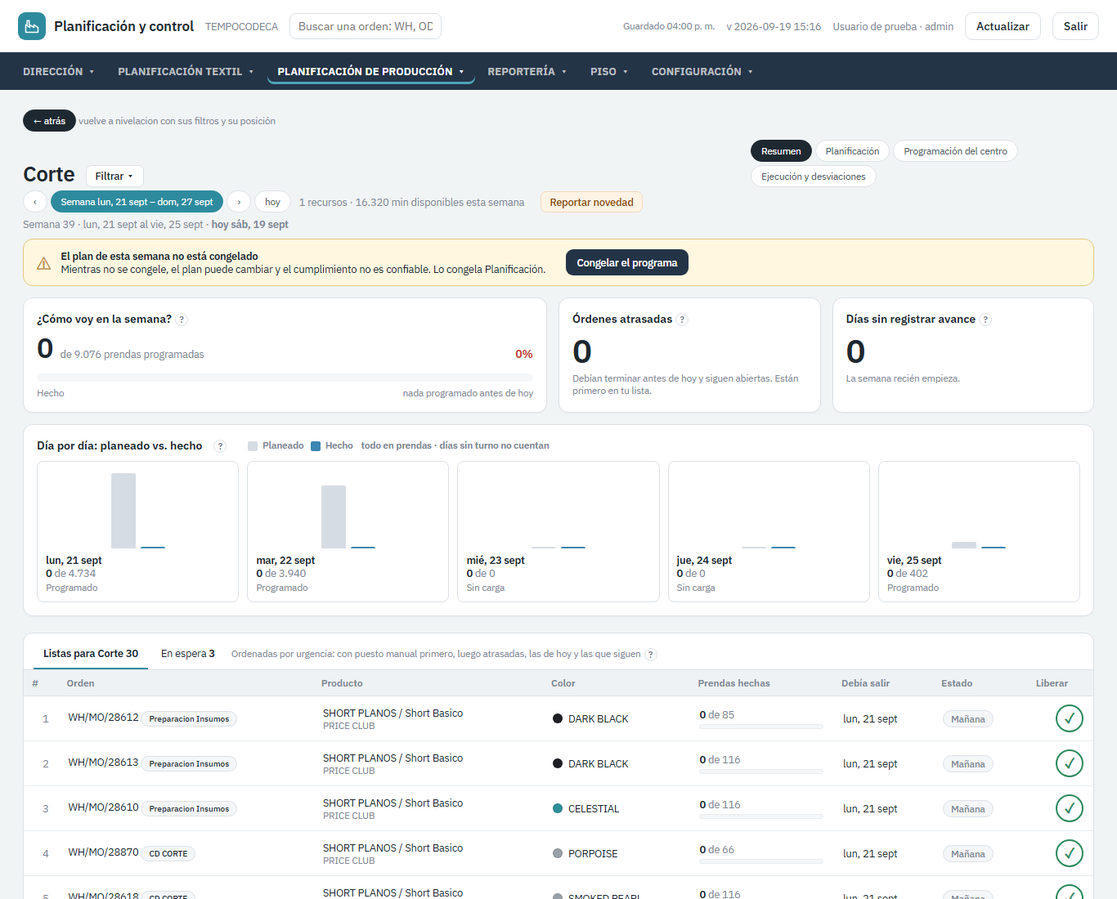
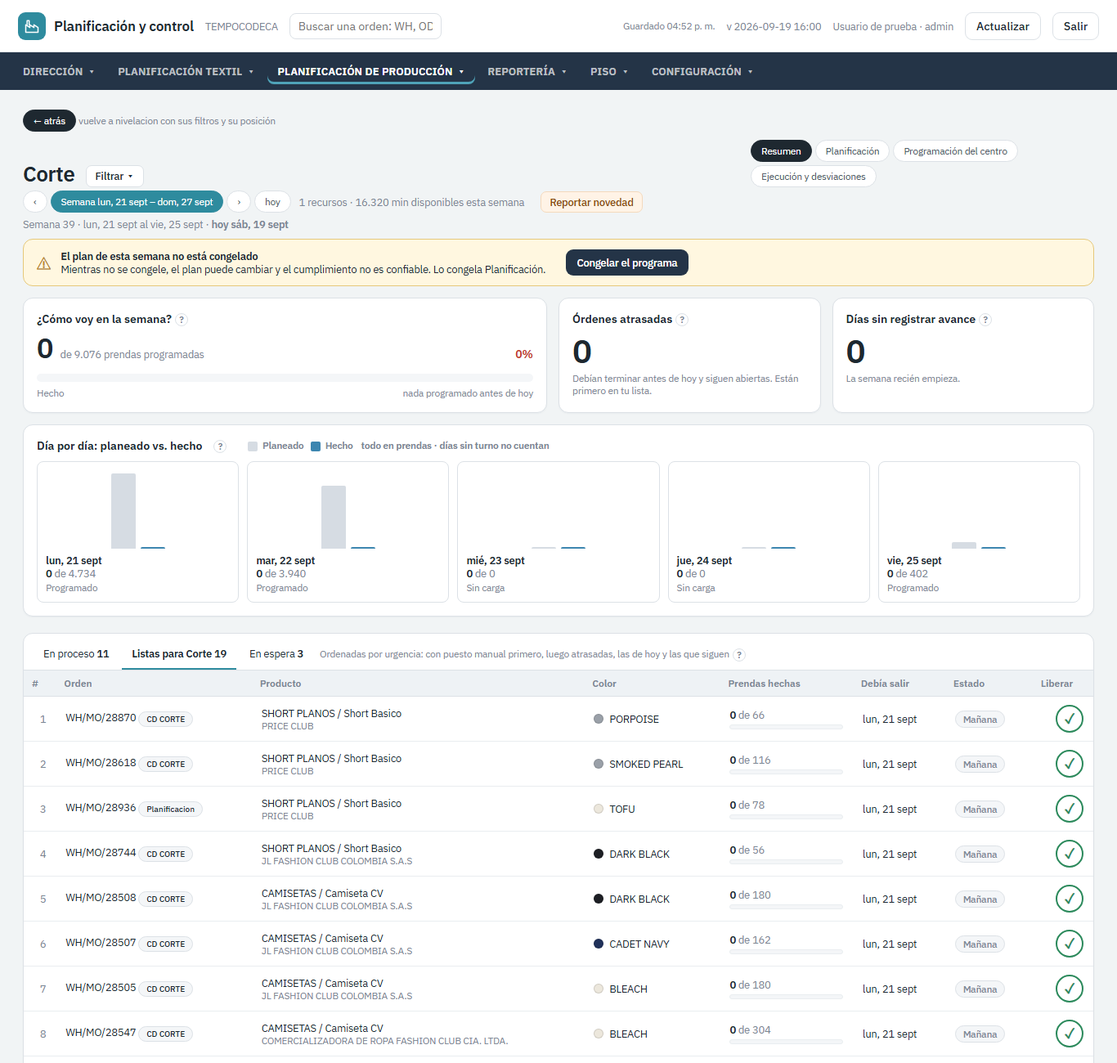
Resumen del centro: tres grupos — En proceso (la fase de Odoo ya es la del centro: 4Corte Planta en Corte, 7Confección en Confección; o el piso ya registró aquí) · Listas (ya puede empezarse) · En espera (viene); el visto sigue en las de proceso; las atrasadas de la tarjeta cuentan proceso + listas;

diff --git a/index.html b/index.html
@@ -768,7 +768,7 @@ async function _save(){
 }
 
 /* ---------- versión cargada vs publicada: nunca mirar números de una copia vieja sin saberlo ---------- */
-const APP_BUILD='2026-09-19 16:00';
+const APP_BUILD='2026-09-19 16:54';
 function verBotonesAdmin(){const ok=puede('config');['btn-respaldo','btn-restaurar'].forEach(id=>{const b=document.getElementById(id);if(b)b.style.display=ok?'':'none'})}
 function verVersion(){const e=document.getElementById('version');if(e)e.textContent='v '+APP_BUILD}
 async function revisarVersion(){try{const r=await fetch(location.pathname+'?nocache='+Date.now(),{cache:'no-store'});if(!r.ok)return;const t=await r.text();const m=t.match(/APP_BUILD=\x27([^\x27]+)\x27/);if(!m)return;
@@ -7408,10 +7408,15 @@ function ordenUrgencia(f){const k=estadoListaCentro(f).k;return k==='atrasada'?0
 function enPlantaParaCentro(o){return lanzada(o)&&liberada(o,'tela')}
 function listasYEspera(c,filas){const cola=colaCentro(c,filas).filter(f=>enPlantaParaCentro(f.o));const listas=[],espera=[];
   /* Listas = el paso anterior terminó (grupo Disponible). El puesto manual solo ORDENA dentro de su lista: no vuelve «lista» a una orden que no llegó */
-  cola.forEach(f=>{const g=(f.cerc&&f.cerc.grupo)||'porLlegar';if(g==='disponible')listas.push(f);else espera.push(f)});
+  const proceso=[];
+  cola.forEach(f=>{const g=(f.cerc&&f.cerc.grupo)||'porLlegar';if(g!=='disponible'){espera.push(f);return}
+    if(enProcesoEnCentro(f.o,c,f.cerc))proceso.push(f);else listas.push(f)});
   const fecha=f=>(f.paso.fin||f.paso.ini||'9');
-  listas.sort((a,b)=>(puestoDe(a.o,c)||SIN_PUESTO)-(puestoDe(b.o,c)||SIN_PUESTO)||ordenUrgencia(a)-ordenUrgencia(b)||(fecha(a)<fecha(b)?-1:fecha(a)>fecha(b)?1:0)||((a.o.fecha||'')<(b.o.fecha||'')?-1:1));
-  return{cola,listas,espera}}
+  const porUrgencia=(a,b)=>(puestoDe(a.o,c)||SIN_PUESTO)-(puestoDe(b.o,c)||SIN_PUESTO)||ordenUrgencia(a)-ordenUrgencia(b)||(fecha(a)<fecha(b)?-1:fecha(a)>fecha(b)?1:0)||((a.o.fecha||'')<(b.o.fecha||'')?-1:1);
+  listas.sort(porUrgencia);proceso.sort(porUrgencia);
+  return{cola,proceso,listas,espera}}
+/* «se está cortando / cosiendo»: la fase de Odoo ya es la de este centro (posicionFaseCentro), o el piso registró unidades / tiene un tramo abierto aquí */
+function enProcesoEnCentro(o,c,cerc){try{if(cerc&&cerc.anomalia&&cerc.anomalia.tipo==='enProceso')return true;if(typeof posicionFaseCentro==='function'&&posicionFaseCentro(o,c)==='enProceso')return true;return estadoOrdenCentro(o,c,null)==='proceso'}catch(e){return false}}
 /* pedir a planificación que congele la semana: queda en la bitácora (la única tabla que el piso escribe) y en Hoy → Pendientes;
    se da por atendido solo cuando existe un congelado de esa semana en ese centro (no hay «marcar atendido») */
 function pedirCongelamiento(cid,lun){const cens=censDeGrupo(cid);const ab=pedidosCongelarAbiertos();
@@ -7437,7 +7442,7 @@ function tarjetasResumenCentroHTML(cens,P,dias,recs,listas,nombre){const h=hoy()
     <div class="res-big"><b>${(ningunReg&&!hechas)?'<span class="tag t-alerta" title="ningún día pasado con carga tiene registro: no se puede leer el avance">sin registros</span>':num(hechas)}</b> <span class="mut">de ${num(pz)} prendas programadas</span>${pct!==null&&!(ningunReg&&!hechas)?'<span class="res-pct '+(pct<50?'mal':'')+'">'+pct+'%</span>':(!pz?'<span class="res-pct mut" style="font-weight:400">nada programado esta semana</span>':'')}</div>
     <div class="res-bar"><i style="width:${pct===null?0:Math.min(100,pct)}%"></i>${mark?'<u style="left:'+mark+'%" title="al cierre de ayer debías llevar '+num(debia)+'"></u>':''}</div>
     <div class="res-leg"><span>Hecho</span><span style="margin-left:auto">${debia?'▲ Al cierre de ayer debías llevar <b>'+num(debia)+'</b>':'<span class="mut">nada programado antes de hoy</span>'}</span></div></div></div>
-   <div class="panel res-card"><div class="body"><div class="res-t">Órdenes atrasadas${ayudaTipHTML('Órdenes listas en '+nombre+' cuyo fin programado en este centro ya pasó y siguen abiertas. Van primero en la lista. No es la fecha meta de la orden: eso es la marca «meta vencida / va tarde» de la cola.')}</div>
+   <div class="panel res-card"><div class="body"><div class="res-t">Órdenes atrasadas${ayudaTipHTML('Órdenes en proceso o listas en '+nombre+' cuyo fin programado en este centro ya pasó y siguen abiertas. Van primero en la lista. No es la fecha meta de la orden: eso es la marca «meta vencida / va tarde» de la cola.')}</div>
     <div class="res-n ${atr.length?'mal':''}">${num(atr.length)}</div><div class="mut res-sub">Debían terminar antes de hoy y siguen abiertas. Están primero en tu lista.</div></div></div>
    <div class="panel res-card"><div class="body"><div class="res-t">Días sin registrar avance${ayudaTipHTML('Días laborables ya pasados de esta semana que tenían carga programada en '+nombre+' y no registraron nada: ni avance por talla, ni tramo cerrado, ni producción del turno, ni paro. Si se trabajó y no se registró, el avance real es mayor que el que se ve. Los días sin carga no cuentan.')}</div>
     <div class="res-n ${sinReg.length?'mal':''}">${num(sinReg.length)}</div><div class="mut res-sub">${sinReg.length?esc(sinReg.map(d=>fmtDia(d).split(',')[0]).join(', '))+'. Si se hizo y no se registró, el avance real es mayor.':(conCarga.length?'Todos los días pasados con carga tienen registro.':(pasados.length?'Ningún día pasado tenía carga programada.':'La semana recién empieza.'))}</div></div></div>
@@ -7461,12 +7466,12 @@ function diaPorDiaHTML(cens,P,dias,recs,nombre){const h=hoy();const rec=CEN.rec|
 /* la lista: Listas para <centro> N | En espera N · foto, WH y fase (whCell), producto, color, prendas hechas, debía salir, estado y el visto verde */
 function listaResumenCentroHTML(cens,P,filas,nombre){const h=hoy();const nVer=prm('filasResumenCentro',8);
   const porC=cens.map(c=>({c,...listasYEspera(c,filas)}));const fuera=[].concat(...cens.map(c=>colaCentro(c,filas))).filter(f=>!enPlantaParaCentro(f.o)).length;
-  let listas=[].concat(...porC.map(x=>x.listas.map(f=>f))),espera=[].concat(...porC.map(x=>x.espera));
-  if(CEN.rec){listas=listas.filter(f=>recDeFila(f)===CEN.rec);espera=espera.filter(f=>recDeFila(f)===CEN.rec)}
-  if(CEN.dia){listas=listas.filter(f=>filaEnDiaCEN(f,P,CEN.dia));espera=espera.filter(f=>filaEnDiaCEN(f,P,CEN.dia))}
-  const tab=CEN.lista==='espera'?'espera':'listas';const L=tab==='espera'?espera:listas;
+  let proceso=[].concat(...porC.map(x=>x.proceso)),listas=[].concat(...porC.map(x=>x.listas)),espera=[].concat(...porC.map(x=>x.espera));
+  if(CEN.rec){proceso=proceso.filter(f=>recDeFila(f)===CEN.rec);listas=listas.filter(f=>recDeFila(f)===CEN.rec);espera=espera.filter(f=>recDeFila(f)===CEN.rec)}
+  if(CEN.dia){proceso=proceso.filter(f=>filaEnDiaCEN(f,P,CEN.dia));listas=listas.filter(f=>filaEnDiaCEN(f,P,CEN.dia));espera=espera.filter(f=>filaEnDiaCEN(f,P,CEN.dia))}
+  const tab=CEN.lista==='espera'?'espera':CEN.lista==='proceso'?'proceso':'listas';const L=tab==='espera'?espera:tab==='proceso'?proceso:listas;
   const vis=CEN.verTodo?L:L.slice(0,nVer);const multi=cens.length>1;
-  const fila=(f,i)=>{const e=tab==='listas'?estadoListaCentro(f):null;const pend=Math.max(0,(+f.o.cant||0)-(f.hechas||0));const pct=f.o.cant?Math.min(100,Math.round((f.hechas||0)/f.o.cant*100)):0;
+  const fila=(f,i)=>{let e=(tab==='listas'||tab==='proceso')?estadoListaCentro(f):null;if(tab==='proceso'&&e&&e.k!=='atrasada')e=null;   /* en proceso: solo interesa si ya debía haber salido */const pend=Math.max(0,(+f.o.cant||0)-(f.hechas||0));const pct=f.o.cant?Math.min(100,Math.round((f.hechas||0)/f.o.cant*100)):0;
     const g=(f.cerc&&f.cerc.grupo)||'';const gTxt=(CERCANIA_GRUPOS.find(x=>x[0]===g)||[])[1]||'';
     return `<tr class="res-fila" onclick="if(!event.target.closest('button,img,.fase-mini'))abrirFichaOrden('${f.o.id}')" style="cursor:pointer">
      <td class="num mut">${i+1}</td>
@@ -7475,13 +7480,13 @@ function listaResumenCentroHTML(cens,P,filas,nombre){const h=hoy();const nVer=pr
      <td style="white-space:nowrap">${dotColor(f.o.color)}${esc((C(f.o.color)||{}).n||'')}</td>
      <td style="min-width:130px"><b>${num(f.hechas||0)}</b> <span class="mut">de ${num(f.o.cant)}</span><div class="bar" style="height:6px;margin-top:4px"><i style="width:${pct}%;background:var(--ok)"></i></div></td>
      <td style="white-space:nowrap">${f.paso.fin?fmtDia(f.paso.fin):'<span class="mut">—</span>'}</td>
-     <td style="white-space:nowrap">${e?'<span class="tag '+e.cls+'" title="'+esc(e.tip)+'">'+esc(e.txt)+'</span>':(llegadaHTML(f.cerc)||'')+(gTxt?' <span class="tag t-mut" title="grupo de la cola">'+esc(gTxt)+'</span>':'')}${e&&g&&g!=='disponible'&&puestoDe(f.o,f.c)?' '+llegadaHTML(f.cerc):''}</td>
-     <td class="num">${(e&&regHechoOk(f.c))?`<button class="visto" onclick="event.stopPropagation();mCerrarCentro('${f.o.id}','${f.c}')" title="terminar la orden en ${esc(nCen(f.c))}: queda libre para el siguiente centro${puedeCerrarPaso(f.o.id,f.c).ok?'':' · sin tiempo corrido pide motivo'}">✓</button>`:'<span class="mut" title="'+(e?'tu perfil no registra en este centro':'todavía no llega a este centro: el visto aparece cuando esté lista')+'">—</span>'}</td></tr>`};
+     <td style="white-space:nowrap">${tab==='proceso'?'<span class="tag t-hoy" title="la fase de Odoo ya es la de '+esc(nCen(f.c))+' o el piso ya registró aquí">En '+esc(nCen(f.c))+'</span> ':''}${e?'<span class="tag '+e.cls+'" title="'+esc(e.tip)+'">'+esc(e.txt)+'</span>':(llegadaHTML(f.cerc)||'')+(gTxt?' <span class="tag t-mut" title="grupo de la cola">'+esc(gTxt)+'</span>':'')}${e&&g&&g!=='disponible'&&puestoDe(f.o,f.c)?' '+llegadaHTML(f.cerc):''}</td>
+     <td class="num">${(tab!=='espera'&&regHechoOk(f.c))?`<button class="visto" onclick="event.stopPropagation();mCerrarCentro('${f.o.id}','${f.c}')" title="terminar la orden en ${esc(nCen(f.c))}: queda libre para el siguiente centro${puedeCerrarPaso(f.o.id,f.c).ok?'':' · sin tiempo corrido pide motivo'}">✓</button>`:'<span class="mut" title="'+(tab!=='espera'?'tu perfil no registra en este centro':'todavía no llega a este centro: el visto aparece cuando esté lista')+'">—</span>'}</td></tr>`};
   const verbo=nombre;
-  return `<div class="panel res-lista"><div class="res-tabs"><span class="res-tab ${tab==='listas'?'on':''}" onclick="CEN.lista='listas';CEN.verTodo=false;render()">Listas para ${esc(verbo)} <b>${num(listas.length)}</b></span><span class="res-tab ${tab==='espera'?'on':''}" onclick="CEN.lista='espera';CEN.verTodo=false;render()">En espera <b>${num(espera.length)}</b></span><span class="spacer"></span>
-    <span class="mut" style="font-size:var(--fs-xs)">${tab==='listas'?'Ordenadas por urgencia: con puesto manual primero, luego atrasadas, las de hoy y las que siguen':'En el orden de la cola: Por llegar (por fase, la más cercana primero) → Todo lo que viene → Revisar ruta → Ya salió de aquí'}${ayudaTipHTML(tab==='listas'?'Listas = el paso anterior ya terminó (o la tela está lista en el primer centro): se pueden trabajar ya. El puesto manual solo cambia el orden; no vuelve «lista» a una orden que todavía no llegó. Solo entran órdenes de planta: con WH y con la tela liberada por planificación.':'En espera = todavía no llegan a este centro: les falta un paso anterior o la tela. El estado dice cuándo llegan según el programa. Solo órdenes de planta (con WH y tela liberada); lo de diseño no entra.')}</span></div>
+  return `<div class="panel res-lista"><div class="res-tabs"><span class="res-tab ${tab==='proceso'?'on':''}" onclick="CEN.lista='proceso';CEN.verTodo=false;render()" title="la fase de Odoo ya es la de este centro, o el piso ya registró aquí">En proceso <b>${num(proceso.length)}</b></span><span class="res-tab ${tab==='listas'?'on':''}" onclick="CEN.lista='listas';CEN.verTodo=false;render()">Listas para ${esc(verbo)} <b>${num(listas.length)}</b></span><span class="res-tab ${tab==='espera'?'on':''}" onclick="CEN.lista='espera';CEN.verTodo=false;render()">En espera <b>${num(espera.length)}</b></span><span class="spacer"></span>
+    <span class="mut" style="font-size:var(--fs-xs)">${tab==='proceso'?'Lo que ya se está haciendo aquí (fase de Odoo en este centro o avance registrado), por urgencia':tab==='listas'?'Ordenadas por urgencia: con puesto manual primero, luego atrasadas, las de hoy y las que siguen':'En el orden de la cola: Por llegar (por fase, la más cercana primero) → Todo lo que viene → Revisar ruta → Ya salió de aquí'}${ayudaTipHTML(tab==='proceso'?'En proceso = la fase de Odoo ya es la de este centro (p. ej. 4Corte Planta en Corte, 7Confección en Confección) o el piso ya registró unidades o tiene un tramo abierto aquí. No están esperando: ya se están haciendo.':tab==='listas'?'Listas = el paso anterior ya terminó (o la tela está lista en el primer centro): se pueden trabajar ya. El puesto manual solo cambia el orden; no vuelve «lista» a una orden que todavía no llegó. Solo entran órdenes de planta: con WH y con la tela liberada por planificación.':'En espera = todavía no llegan a este centro: les falta un paso anterior o la tela. El estado dice cuándo llegan según el programa. Solo órdenes de planta (con WH y tela liberada); lo de diseño no entra.')}</span></div>
    <div class="scroll"><table class="res-tabla"><thead><tr><th>#</th><th>Orden</th><th>Producto</th><th>Color</th><th>Prendas hechas</th><th title="fin programado del paso en este centro">Debía salir</th><th>Estado</th><th title="marcar hecha: queda libre para el siguiente centro">Liberar</th></tr></thead><tbody>
-   ${vis.map(fila).join('')||'<tr><td colspan="8" class="mut" style="padding:14px">'+(tab==='listas'?'Ninguna orden lista'+(CEN.rec?' en '+esc(nRec(CEN.rec)):'')+(CEN.dia?' el '+fmtDia(CEN.dia):'')+'.':'Nada en espera.')+'</td></tr>'}
+   ${vis.map(fila).join('')||'<tr><td colspan="8" class="mut" style="padding:14px">'+(tab==='proceso'?'Nada en proceso ahora':tab==='listas'?'Ninguna orden lista'+(CEN.rec?' en '+esc(nRec(CEN.rec)):'')+(CEN.dia?' el '+fmtDia(CEN.dia):'')+'.':'Nada en espera.')+'</td></tr>'}
    </tbody></table></div>
    ${L.length>vis.length?`<div class="res-mas" onclick="CEN.verTodo=true;render()">Ver las ${num(L.length-vis.length)} restantes</div>`:(CEN.verTodo&&L.length>nVer?`<div class="res-mas" onclick="CEN.verTodo=false;render()">Ver menos</div>`:'')}
    ${fuera?`<p class="mut" style="font-size:var(--fs-xs);margin:6px 16px 10px">${num(fuera)} ${fuera===1?'orden de este centro no se muestra':'órdenes de este centro no se muestran'} aquí porque todavía no ${fuera===1?'es':'son'} de planta (sin WH o sin liberar la tela: diseño, recetas, macro). Están en Órdenes.</p>`:''}
@@ -7491,7 +7496,7 @@ function resumenCentroHTML(cid,cens,P,dias,recs,nombre,filas){const h=hoy();cons
   const recsSel=recsResumen(recs);
   const cong=cens.map(c=>congeladoDe(c,lun));const congelado=cong.length&&cong.every(Boolean);
   const pedido=pedidosCongelarAbiertos().find(b=>b.cid===cid&&b.lun===lun);
-  const {listas}=(()=>{let l=[].concat(...cens.map(c=>listasYEspera(c,filas).listas));if(CEN.rec)l=l.filter(f=>recDeFila(f)===CEN.rec);return{listas:l}})();
+  const {listas}=(()=>{let l=[].concat(...cens.map(c=>{const r=listasYEspera(c,filas);return r.proceso.concat(r.listas)}));if(CEN.rec)l=l.filter(f=>recDeFila(f)===CEN.rec);return{listas:l}})();
 
   const labDias=dias.filter(d=>recs.some(r=>labR(d,r)));
   const semTxt=`Semana ${semanaISO(lun).split('-S')[1]} · ${fmtDia(lun)} al ${fmtDia(labDias[labDias.length-1]||dom)} · <b>hoy ${fmtDia(h)}</b>`;

diff --git a/test/driver.js b/test/driver.js
@@ -6475,9 +6475,11 @@ async function __run(){try{LISTO=true;}catch(e){}try{__R.prevFuzz=localStorage._
    __check("RC1: la pestaña Resumen existe, va primera y es la que abre irCentro por defecto",(()=>{abrir('corte',0);const chips=[...pc().querySelectorAll('.pagehead .chip')].map(x=>x.textContent);return CEN.tab==='resumen'&&chips[0]==='Resumen'&&chips.includes('Programación del centro')})());
    /* RC2 · la semana con carga del volcado (la siguiente): las dos listas parten la cola entera y no repiten nada */
    {abrir('corte',1);const P=programar();const lun=lunesDe(dsum(h,7)),dom=dsum(lun,6);
-    const filas=filasDeCentros(['corte'],P,lun,dom,'').filter(f=>faseOkCEN(f.o));const {cola,listas,espera}=listasYEspera('corte',filas);
+    const filas=filasDeCentros(['corte'],P,lun,dom,'').filter(f=>faseOkCEN(f.o));const {cola,proceso,listas,espera}=listasYEspera('corte',filas);
+    __check("RC2: En proceso = grupo Disponible cuya fase de Odoo ya es la del centro (o el piso registró aquí); no está en Listas",proceso.every(f=>f.cerc&&f.cerc.grupo==='disponible'&&enProcesoEnCentro(f.o,'corte',f.cerc))&&listas.every(f=>!enProcesoEnCentro(f.o,'corte',f.cerc))&&!proceso.some(f=>listas.includes(f)));
+    __check("RC2: una orden en fase 4Corte Planta (se está cortando) sale En proceso y no en Listas",(()=>{const f=cola.find(x=>/corte planta/i.test(x.o.fase||''));return !f||(proceso.includes(f)&&!listas.includes(f))})());
     const ids=x=>x.map(f=>f.o.id).sort().join(',');
-    __check("RC2: Listas + En espera = la cola del centro (colaCentro) acotada a órdenes de planta, sin repetir ni perder ninguna",listas.length+espera.length===cola.length&&ids(listas.concat(espera))===ids(cola)&&new Set(listas.map(f=>f.o.id)).size===listas.length);
+    __check("RC2: En proceso + Listas + En espera = la cola del centro (colaCentro) acotada a órdenes de planta, sin repetir ni perder ninguna",proceso.length+listas.length+espera.length===cola.length&&ids(proceso.concat(listas,espera))===ids(cola)&&new Set(listas.map(f=>f.o.id)).size===listas.length);
     __check("RC2: Listas = SOLO grupo Disponible (el puesto manual ordena, no promueve); En espera = todo lo demás",listas.every(f=>f.cerc&&f.cerc.grupo==='disponible')&&espera.every(f=>!(f.cerc&&f.cerc.grupo==='disponible')));
     __check("RC2: solo órdenes de planta: con WH y con la tela liberada; lo de diseño / sin WH no entra al Resumen",listas.concat(espera).every(f=>lanzada(f.o)&&liberada(f.o,'tela')));
     {const oD=S.ordenes.find(o=>abiertaDe(o)&&!lanzada(o)&&(o.ruta||[]).some(p=>p.centro==='corte'));if(oD){oD.progCentro=Object.assign({},oD.progCentro,{corte:{pri:1}});const r2=listasYEspera('corte',filasDeCentros(['corte'],P,lun,dom,'').filter(f=>faseOkCEN(f.o)));
@@ -6487,7 +6489,7 @@ async function __run(){try{LISTO=true;}catch(e){}try{__R.prevFuzz=localStorage._
     __check("RC2: Listas va por urgencia: puesto manual primero y luego atrasada → para hoy → futuro → sin programar (nunca al revés)",(()=>{let ok=true;for(let i=1;i<listas.length;i++){const a=listas[i-1],b=listas[i];const pa=puestoDe(a.o,'corte')||SIN_PUESTO,pb=puestoDe(b.o,'corte')||SIN_PUESTO;if(pa<pb)continue;if(pa>pb){ok=false;break}if(ordenUrgencia(a)>ordenUrgencia(b)){ok=false;break}}return ok})());
     __check("RC2: En espera conserva el orden de la cola (Por llegar → Todo lo que viene → Revisar → Ya salió)",(()=>{const enCola=cola.filter(f=>espera.includes(f));return enCola.map(f=>f.o.id).join(',')===espera.map(f=>f.o.id).join(',')})());
     const t=[...pc().querySelectorAll('.res-tab')].map(txt);
-    __check("RC2: los conteos de las pestañas son los de las listas",t.length===2&&t[0]==='Listas para Corte '+num(listas.length)&&t[1]==='En espera '+num(espera.length),JSON.stringify(t));
+    __check("RC2: los conteos de las tres pestañas son los de las listas",t.length===3&&t[0]==='En proceso '+num(proceso.length)&&t[1]==='Listas para Corte '+num(listas.length)&&t[2]==='En espera '+num(espera.length),JSON.stringify(t));
     const n=prm('filasResumenCentro',8);const filasDOM=pc().querySelectorAll('.res-tabla tbody tr.res-fila');
     __check("RC2: se muestran las primeras N (parámetro filasResumenCentro, 8) y «Ver las X restantes» completa",filasDOM.length===Math.min(n,listas.length)&&(listas.length<=n||txt(pc().querySelector('.res-mas'))==='Ver las '+num(listas.length-n)+' restantes'));
     __check("RC2: cada fila lleva foto/WH/fase (whCell), producto, color, prendas hechas de pedidas, debía salir, estado y el visto",[...filasDOM].every(tr=>tr.children.length===8&&tr.querySelector('.fase-mini')&&tr.querySelector('.bar')&&tr.querySelector('.visto')));
@@ -6535,7 +6537,7 @@ async function __run(){try{LISTO=true;}catch(e){}try{__R.prevFuzz=localStorage._
     const m1=recs.find(r=>!ordenRecChip(r)&&(all.listas.concat(all.espera)).some(f=>recDeFila(f)===r.id))||recs.find(r=>!ordenRecChip(r));
     abrir('modulos',1);setRecResumen(m1.id);
     const t=[...pc().querySelectorAll('.res-tab')].map(txt);const lm=all.listas.filter(f=>recDeFila(f)===m1.id),em=all.espera.filter(f=>recDeFila(f)===m1.id);
-    __check("RC6: al elegir un módulo la lista se acota a sus órdenes (recurso fijado por el centro o el del motor) y lo dice",CEN.rec===m1.id&&t[0]==='Listas para Confección '+num(lm.length)&&t[1]==='En espera '+num(em.length)&&new RegExp('viendo solo '+m1.n.replace(/[.*+?^${}()|[\]\\]/g,'\\$&')).test(pc().innerHTML),JSON.stringify([t,lm.length,em.length]));
+    __check("RC6: al elegir un módulo la lista se acota a sus órdenes (recurso fijado por el centro o el del motor) y lo dice",CEN.rec===m1.id&&t[1]==='Listas para Confección '+num(lm.length)&&t[2]==='En espera '+num(em.length)&&new RegExp('viendo solo '+m1.n.replace(/[.*+?^${}()|[\]\\]/g,'\\$&')).test(pc().innerHTML),JSON.stringify([t,lm.length,em.length]));
     const dias=[];for(let d=lun;d<=dom;d=dsum(d,1))dias.push(d);
     const pzM=dias.reduce((a,d)=>a+datosDiaCentro(['modulos'],P,d,[m1],m1.id).pz,0);const pzMotor=(P.pro||[]).filter(x=>x.centro==='modulos'&&x.rec===m1.id&&x.dia>=lun&&x.dia<=dom).reduce((a,x)=>a+(x.pz||0),0);
     const pzTodo=dias.reduce((a,d)=>a+datosDiaCentro(['modulos'],P,d,recs).pz,0);const pzTodoMotor=(P.pro||[]).filter(x=>x.centro==='modulos'&&x.dia>=lun&&x.dia<=dom).reduce((a,x)=>a+(x.pz||0),0);
@@ -6559,7 +6561,7 @@ async function __run(){try{LISTO=true;}catch(e){}try{__R.prevFuzz=localStorage._
    {abrir('plancha',1);__check("RC8: una sub-área sola (CEN.solo) no muestra el detalle por sub-área",CEN.id==='terminados'&&CEN.solo==='plancha'&&!/Detalle por sub-área/.test(pc().innerHTML));
     CEN.solo='';render();__check("RC8: el ítem con varias sub-áreas juntas muestra el detalle por sub-área plegado (resumenSubCentros) y el nombre del centro en cada fila",/Detalle por sub-área/.test(pc().innerHTML)&&(()=>{const f=pc().querySelector('.res-tabla tbody tr.res-fila');return !f||subAreasDe('terminados').some(c=>f.children[1].textContent.includes(nCen(c)))})());
     abrir('corte',0);const lun=lunesDe(h);__check("RC8: la cabecera dice la semana ISO, el rango laborable y hoy",new RegExp('Semana '+semanaISO(lun).split('-S')[1]+' · ').test(txt(pc().querySelector('.res-sem')))&&txt(pc().querySelector('.res-sem')).includes('hoy '+fmtDia(h)));}
-   __check("RC: GUARDIA — la pantalla no calcula la cola ni el avance por su cuenta: usa colaCentro, cercanía (grupo), datosDiaCentro, habilesDesde/Hasta y marcarHechoCentro",/colaCentro\(/.test(String(listasYEspera))&&/==='disponible'/.test(String(listasYEspera))&&/datosDiaCentro\(/.test(String(tarjetasResumenCentroHTML))&&/datosDiaCentro\(/.test(String(diaPorDiaHTML))&&/habilesDesde\(/.test(String(estadoListaCentro))&&/habilesHasta\(/.test(String(estadoListaCentro))&&/mCerrarCentro\(/.test(String(listaResumenCentroHTML))&&/congeladoDe\(/.test(String(resumenCentroHTML)));
+   __check("RC: GUARDIA — la pantalla no calcula la cola ni el avance por su cuenta: usa colaCentro, cercanía (grupo), datosDiaCentro, habilesDesde/Hasta y marcarHechoCentro",/colaCentro\(/.test(String(listasYEspera))&&/!=='disponible'|==='disponible'/.test(String(listasYEspera))&&/datosDiaCentro\(/.test(String(tarjetasResumenCentroHTML))&&/datosDiaCentro\(/.test(String(diaPorDiaHTML))&&/habilesDesde\(/.test(String(estadoListaCentro))&&/habilesHasta\(/.test(String(estadoListaCentro))&&/mCerrarCentro\(/.test(String(listaResumenCentroHTML))&&/congeladoDe\(/.test(String(resumenCentroHTML)));
    window.alert=al;PERFIL=adminP0();CEN.sem=0;CEN.rec='';CEN.lista='listas';CEN.verTodo=false;CEN.dia=null;CEN.tab='plan';PLAN=null;PLAN_ALL=null;page='ordenes';render();
    __check("RESUMEN sin errores",__R.errors.length===antes,JSON.stringify(__R.errors.slice(antes,antes+3)));}
   /* ===== AUDITORÍA DEL SISTEMA (19-sep-2026): lo que se encontró y se corrigió, fijado en pruebas ===== */

diff --git a/CLAUDE.md b/CLAUDE.md
@@ -825,8 +825,8 @@ el patrón.** Diccionario aprobado (textos visibles, no identificadores): cercan
 capacidad?»**; se quedan «Todo lo que viene», congelar, WH, ODC. **Semáforo**: `estadoSemaforo(o,P)` /
 `estadoSemaforoHTML` = un color (verde/ámbar/rojo/gris) y un verbo por orden, derivado de diagAtraso, liberada/
 faltaLiberarA, bloqueo, pasoProximoDe + cercaniaCentro — **no crear otro estado**; se usa en Órdenes (columna Estado),
-Liberación B1 y Control de piso (**Entregas NO: quedó como el cliente la necesita**). **Resumen del centro**: Listas = solo
-grupo Disponible (el puesto manual ordena, no promueve) y solo órdenes de planta (`enPlantaParaCentro` = con WH y tela
+Liberación B1 y Control de piso (**Entregas NO: quedó como el cliente la necesita**). **Resumen del centro**: tres grupos — **En proceso** (`enProcesoEnCentro`: fase de Odoo del propio centro,
+unidades o tramo abierto; «la fase de corte es lo que se está cortando») · **Listas** = grupo Disponible sin empezar (el puesto manual ordena, no promueve) · **En espera** y solo órdenes de planta (`enPlantaParaCentro` = con WH y tela
 liberada); lo de diseño / sin WH no entra (decisión de la usuaria, 19-sep). Modo del driver `?captura=ux<pantalla>[f][q]`. Ver
 `DUMMIES_1_CABECERA_PALABRAS_SEMAFORO.md`. Roles dictados por la usuaria para A/B (portada por rol y menú de tareas):
 Santiago (corte+estampado+bordado), Mariela y Paola (módulos+maquila), Terminados (botones/lavado/plancha/empaque),

diff --git a/DUMMIES_1_CABECERA_PALABRAS_SEMAFORO.md b/DUMMIES_1_CABECERA_PALABRAS_SEMAFORO.md
@@ -98,6 +98,12 @@ promueve. Y al Resumen de un centro **solo entran órdenes de planta**: con WH y
 (`enPlantaParaCentro`); lo de diseño, recetas o macro no entra y una nota al pie dice cuántas quedaron fuera. Probado
 con toda la cola numerada: 56 listas (todas disponibles), 467 fuera por no ser de planta.
 
+**Y en la misma tarde:** la fase de Corte (4Corte Planta) es lo que **se está cortando**, no lo que espera. El Resumen
+de todo centro tiene ahora tres grupos: **En proceso** (la fase de Odoo ya es la de este centro —4Corte Planta en Corte,
+7Confección en Confección, 8Empaque en Empaque— o el piso ya registró aquí) · **Listas** (ya puede empezarse) · **En
+espera** (viene). `enProcesoEnCentro(o,c,cerc)`; las atrasadas de la tarjeta cuentan en proceso + listas. Reales: Corte
+4 en proceso / 52 listas; Confección 23 / 16 / 94; Empaque 49 / 27 / 178.
+
 ## Pruebas
 
 Bloque `dummies` en `test/driver.js`: F1 (ningún lede suelto en 28 pantallas; el «?» cuelga del título; el texto es el
